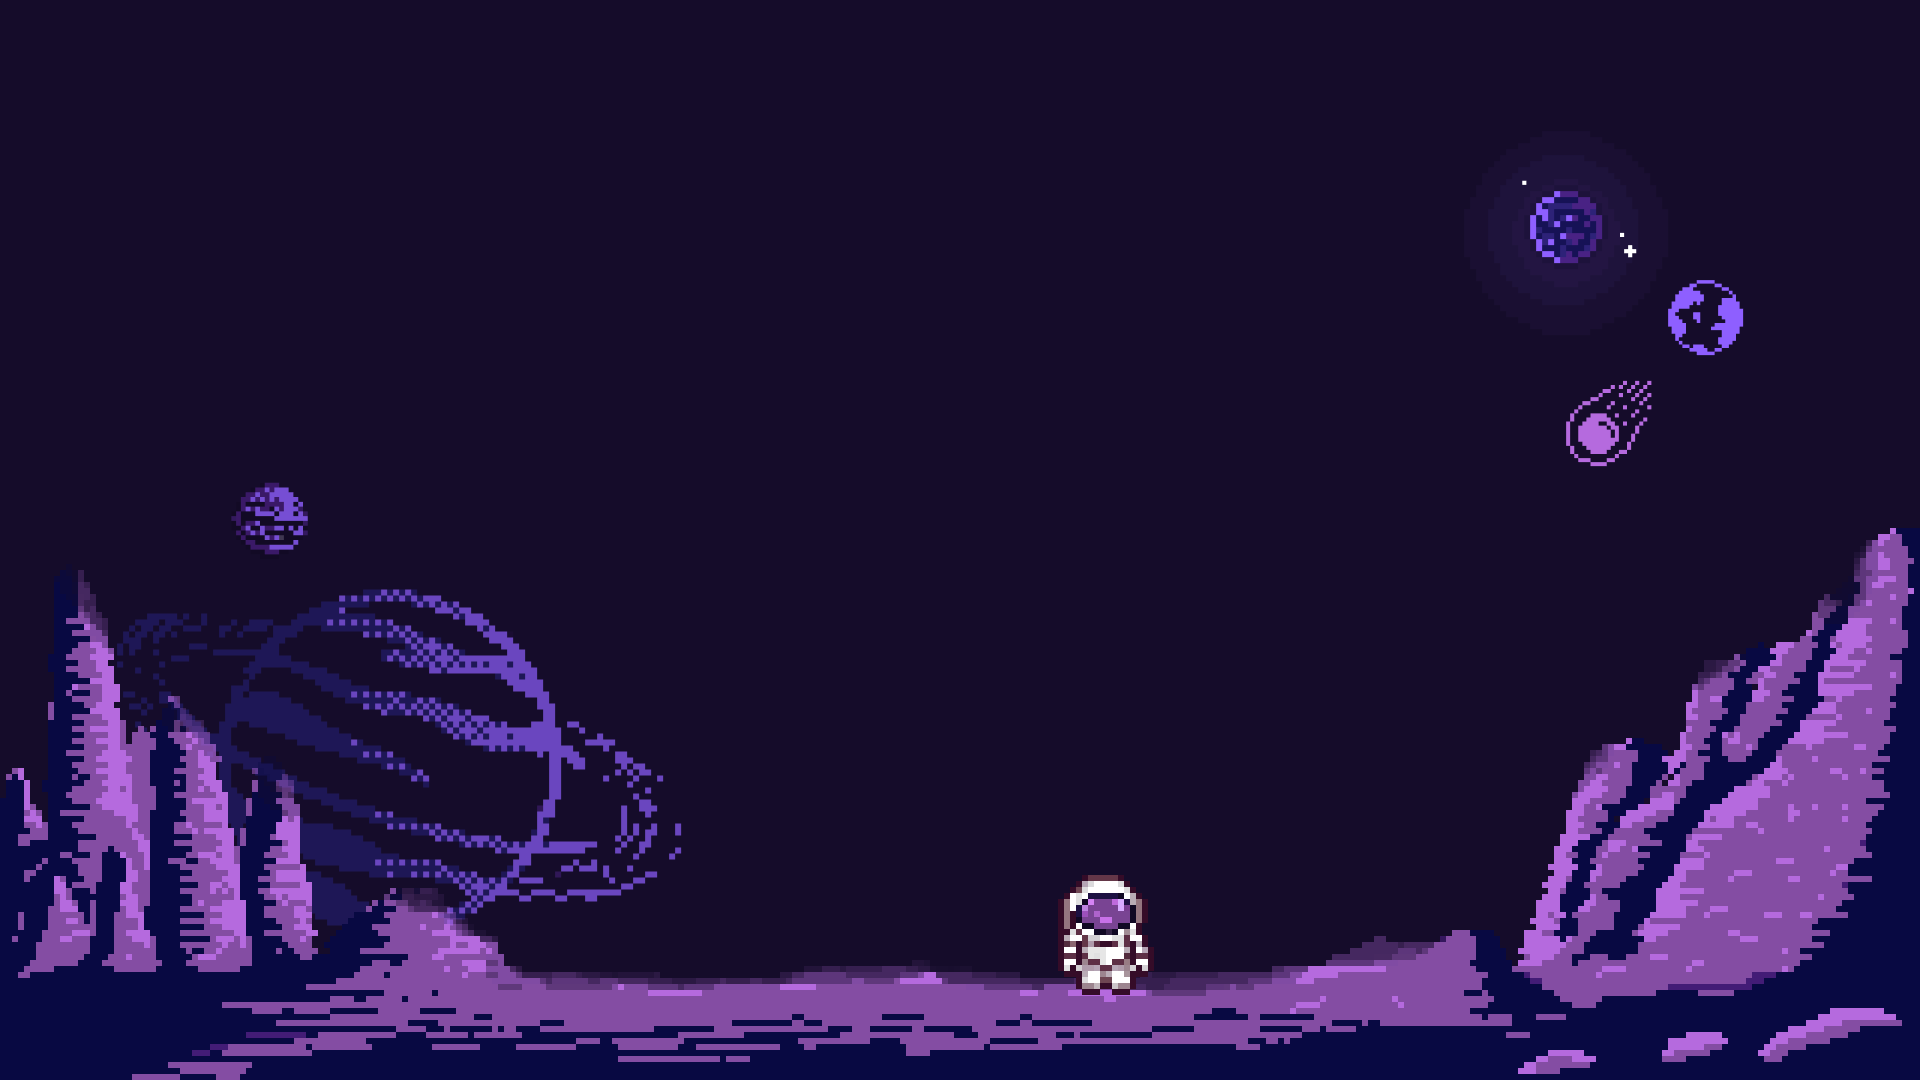
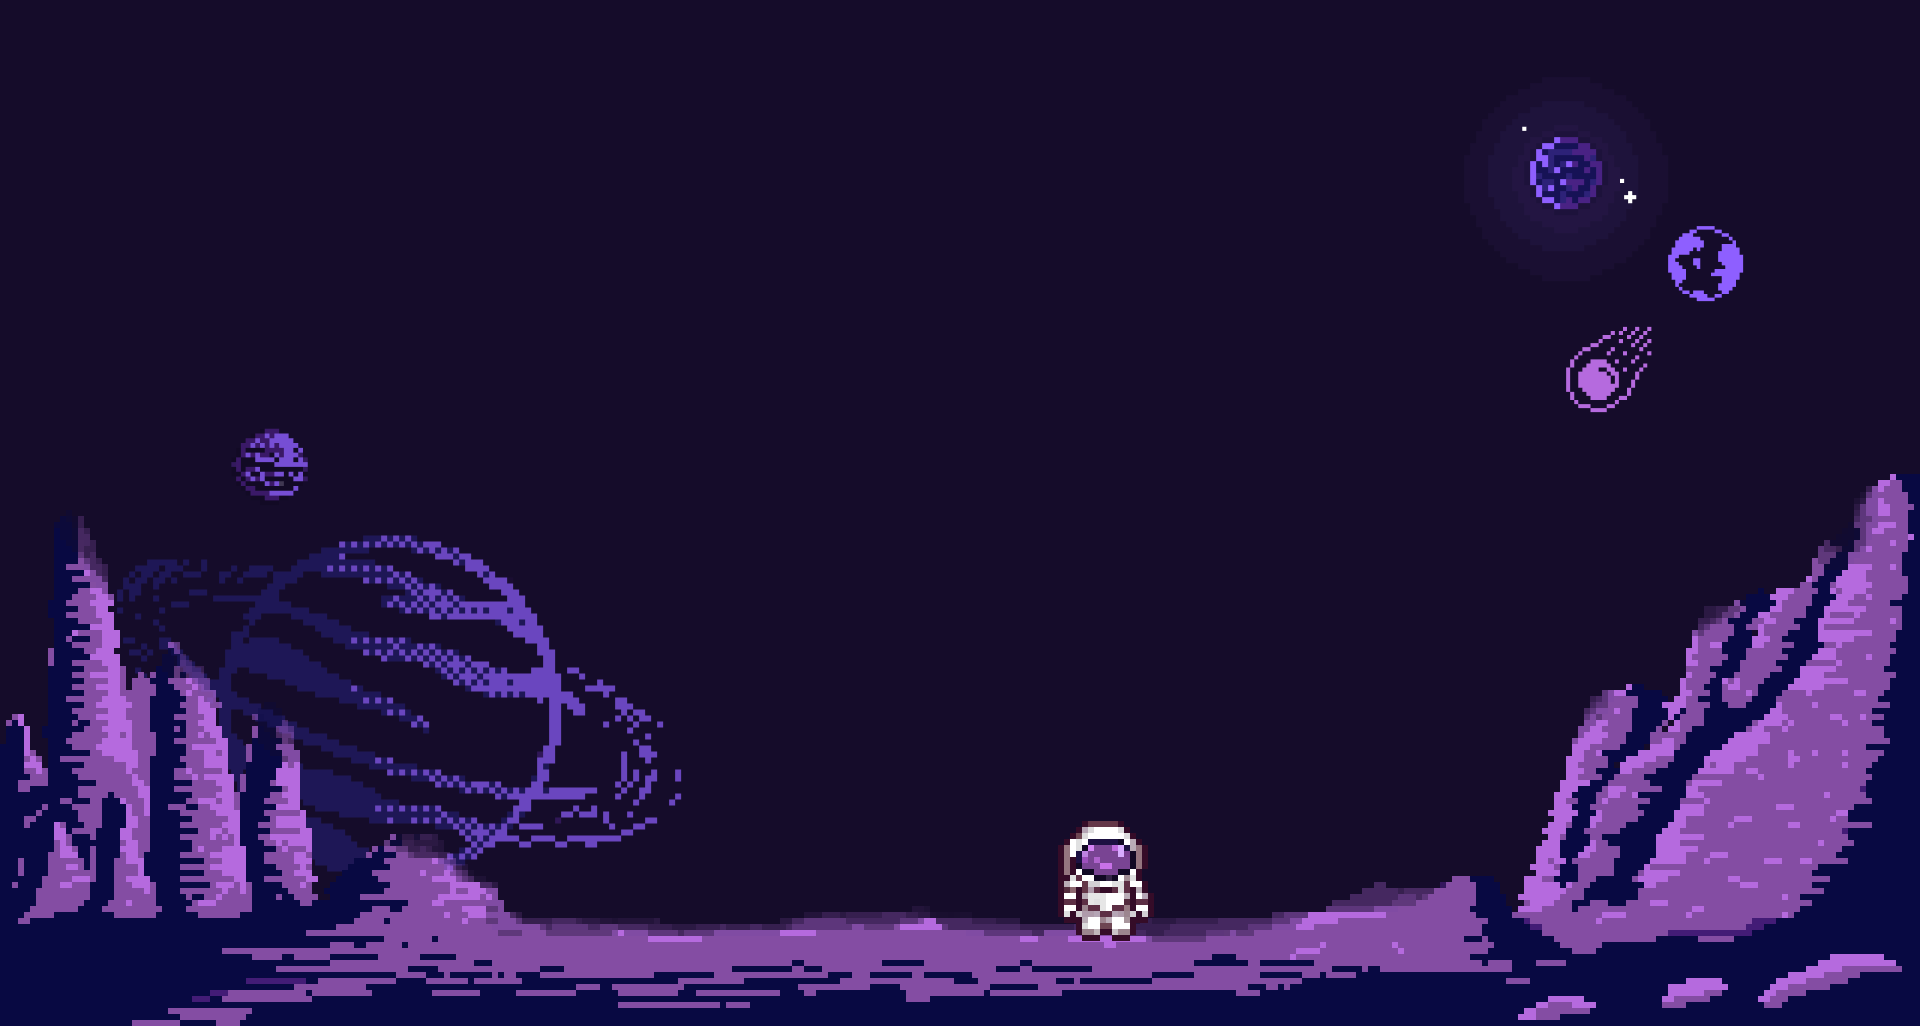
fix the homepage a little

diff --git a/packages/nextjs/app/page.tsx b/packages/nextjs/app/page.tsx
@@ -19,12 +19,12 @@ const Home: NextPage = () => {
 
   return (
     <>
-      <div className="justify-center p-1 bg-base-100">
+      <div className="justify-center p-0 sm:pt-1 bg-base-100">
         <div
           className="hero min-h-screen"
           style={{
             backgroundImage: resolvedTheme === "light" ? "url(/bg-light.png)" : "url(/bg-dark.png)",
-            backgroundPosition: "center top -50px",
+            backgroundPosition: "center top",
             backgroundSize: "cover",
           }}
         >
@@ -61,7 +61,7 @@ const Home: NextPage = () => {
           </div>
         </div>
       </div>
-      <h2 className="text-center text-2xl font-bold pt-12 pb-4">Complete the Missions and Earn NFTs</h2>
+      <h2 className="text-center text-2xl font-bold pt-12 pb-8">Complete the Missions and Earn NFTs</h2>
       <div className="py-2 px-2 bg-base-100 items-center">
         <div className="flex justify-center">
           <div className="max-w-7xl mx-auto grid grid-cols-1 sm:grid-cols-2 lg:grid-cols-4 gap-8 p-6 justify-center">
@@ -97,7 +97,7 @@ const Home: NextPage = () => {
           </div>
         </div>
       </div>
-      <h2 className="text-center text-1xl pt-4">Additional Missions Coming Soon...</h2>
+      <h2 className="text-center text-1xl p-8">Additional Missions Coming Soon...</h2>
       <div className=" bg-base-100">
         <div className="flex justify-center">
           <div className="grid grid-cols-1 sm:grid-cols-2 lg:grid-cols-3 gap-8 p-6 max-w-7xl">
